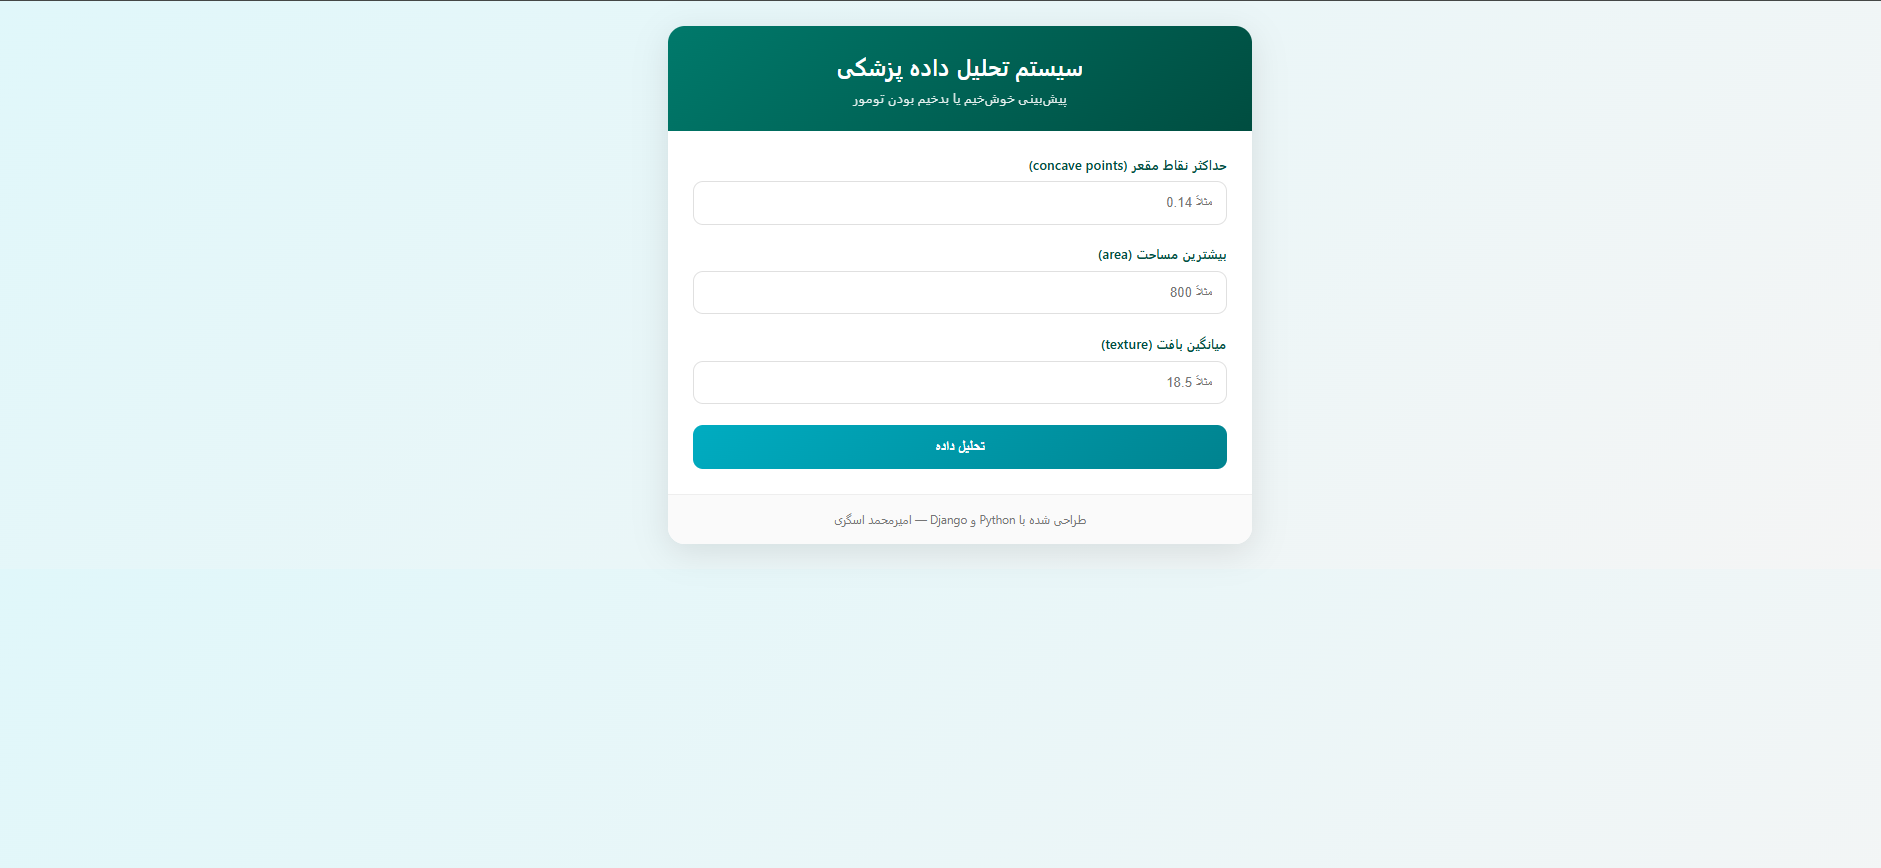
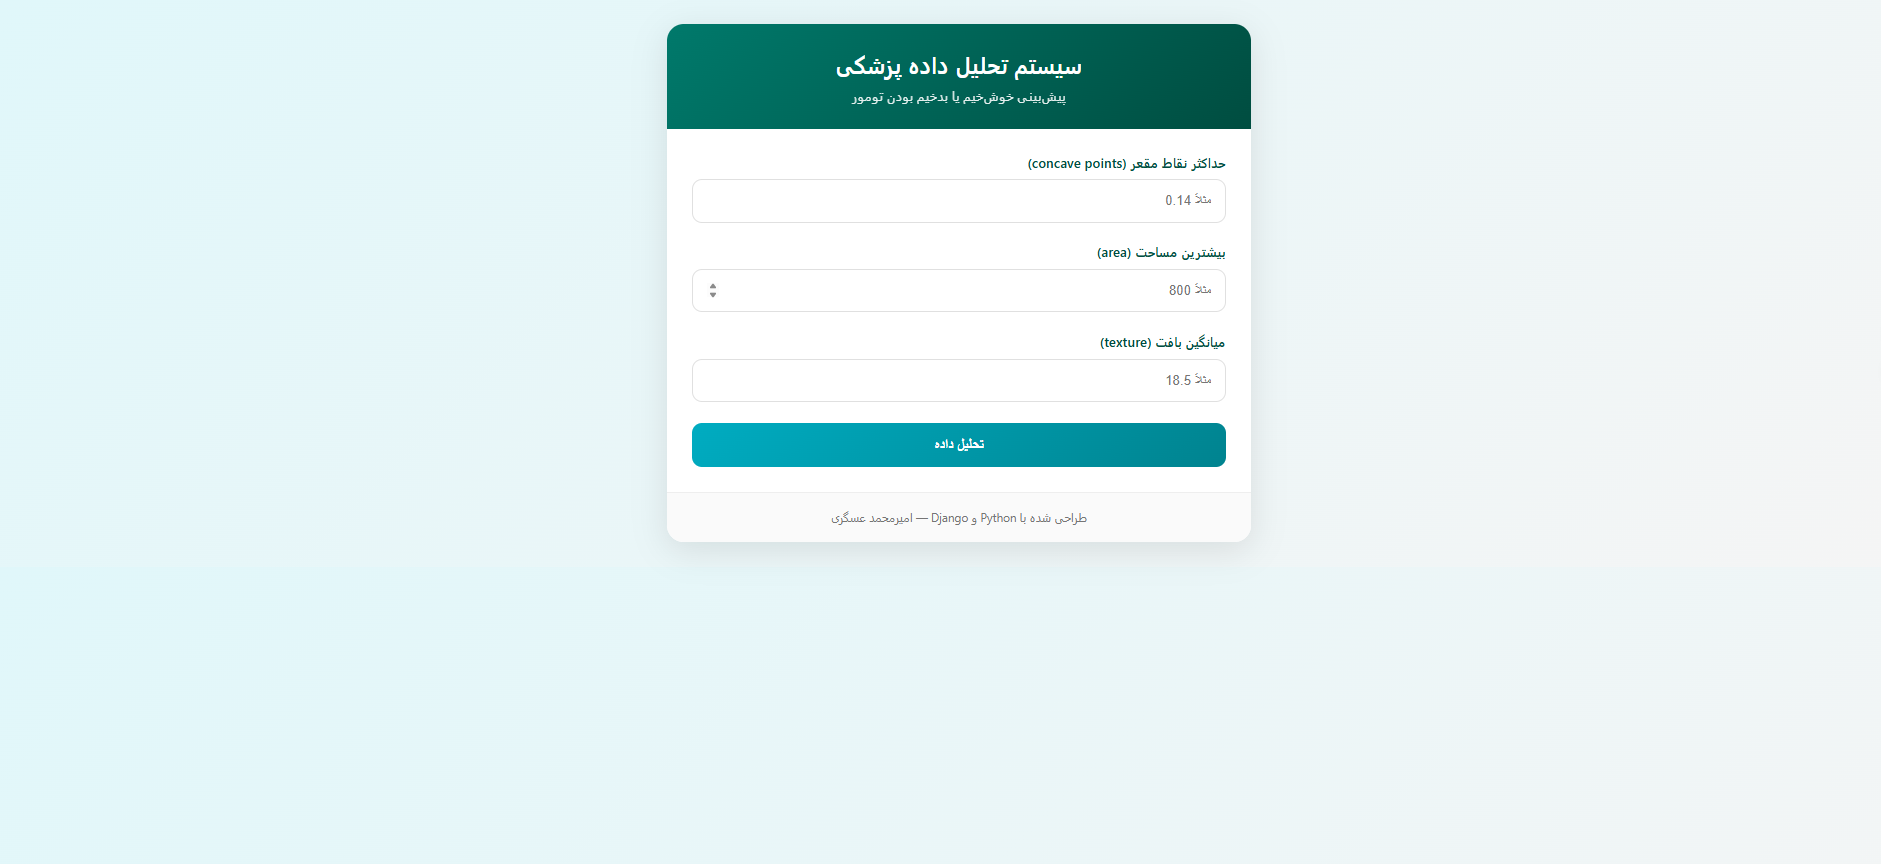
first commit

diff --git a/index.html b/index.html
@@ -2,7 +2,7 @@
 <html lang="fa">
 <head>
   <meta charset="UTF-8">
-  <title>پیشبینی سرطان پستان — پورتفولیوی امیرمحمد اسگری</title>
+  <title>پیشبینی سرطان پستان — پورتفولیوی امیرمحمد عسگری</title>
   <style>
     * {
       margin: 0;
@@ -157,7 +157,7 @@
     </div>
 
     <div class="footer">
-      طراحی شده با Python و Django — امیرمحمد اسگری
+      طراحی شده با Python و Django — امیرمحمد عسگری
     </div>
   </div>
 

diff --git a/README.md b/README.md
@@ -40,7 +40,7 @@
 
 ## 👨💻 ساخته شده توسط
 
-**امیرمحمد اسگری**  
+**امیرمحمد عسگری**  
 Python Developer | Medical Data Analyst  
 [GitHub](https://github.com/mr-amirasgari) • [LinkedIn](https://www.linkedin.com/in/amirmohammadasgari)
 
